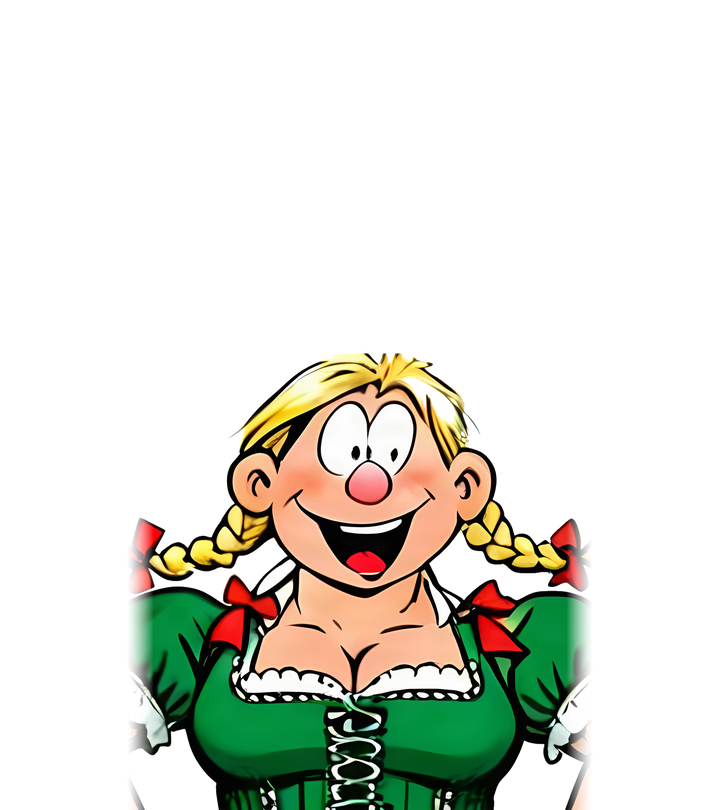
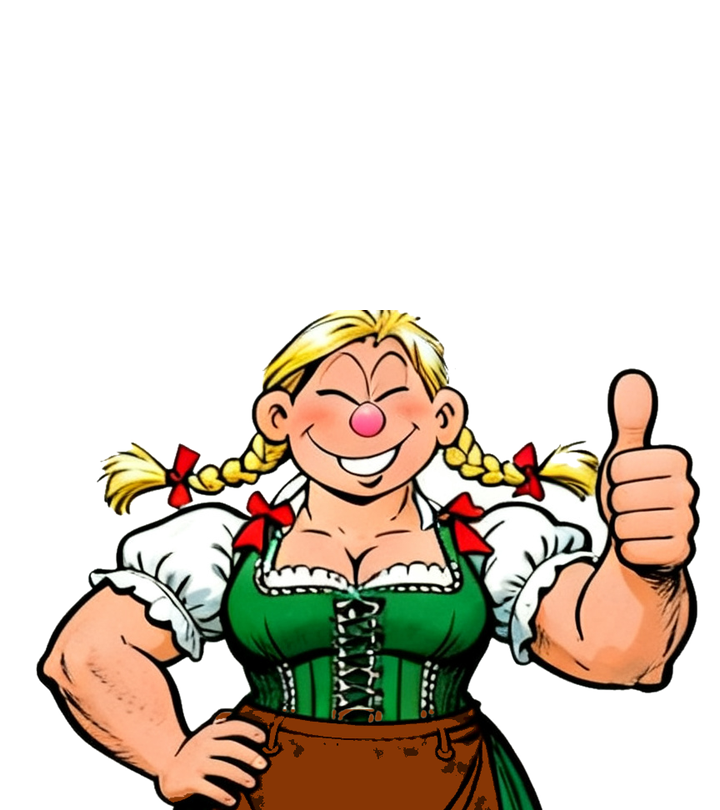
Story: Hanna shows her whole buff arms (thumbs-up pose)
Claude-Session: https://claude.ai/code/session_014QGDmV81LUu1R5ACRdt9j8

diff --git a/guides/DESIGNER_MANUAL.md b/guides/DESIGNER_MANUAL.md
@@ -4731,7 +4731,7 @@ and then its `Door Sound` (`door_open`, a wooden door creaking open)
 name off the bottom middle of its picture, e.g. the Club House's, so the
 Trophy Room hut in front of it keeps its own name.
 
-**The village buttons (23 Oct 2026)**: the village picture (assets/base/village.png) now has the drawn Pub right of the brewery. Like the brewery church, it is a button: Buildings.csv `Village Art` = `pub_inn` (assets/base/map/pub_inn.png = only its pixels, pub_inn_hover.png = lit up with a gold edge). The pitch is a button too: the new row `play_field` ("Play a match", Action `play:friendly`, Village Art `village_field`). Clicking the grass does what the Play a match flag did (the Match Maker), and while that row is on the base the flag is not on the top row. The pieces are made by /mnt/project-files/art_tool/base/village_buttons/make_pieces.py. The Dorms is drawn in too (the white block far left, behind the tree, chapel and houses): Village Art `dorms_block`, lit up on hover the same way. The Brewer visitor is off the base for now: his Visitors.csv `Requires` is `flag:brewer_on_base`; put `unlocked:Brewery` back to bring him back. Later the same day the whole picture was redrawn (r172): the new wooden Club House chalet in the middle (Village Art `clubhouse_chalet`), the low houses and little chapel under the Dorms and Club House all together as the Training Ground (`training_houses`), and the wooden Trophy hut with the gold cup in the field corner between the stone wall and the fence (`trophy_hut`). Every building on the base now lights up yellow on hover. The Dorms and Club House name tags are lifted onto their own building with `Name Offset` so the houses in front do not hide them. Pieces: /mnt/project-files/art_tool/base/village_buttons/make_masks_r172.py, then make_pieces_r172.py. The base's name now hangs on the tavern sign like the other screens (data/MenuHeader.csv; Language.csv `the_base`, `tutorial_base`). THE TUTORIAL NOW STARTS ON THE BASE (23 Oct 2026, Anthony): Tuning.csv `tutorial_first_scene` = `tut-base-welcome`, one Dialogue.csv line over the village picture (StoryArt.csv background `village`): the Head Coach says "Ah Coach! You are here, glad you could make it", and its Next `prologue/open` carries on into Pub Dialogue 1 and the tutorial match as before. Put `prologue` back in `tutorial_first_scene` to open in the pub again. THE NEW INTRODUCTION (23 Oct, Anthony): the welcome is now four lines ("Welcome to Sturmball!" ... "let us get a drink at the Pub"), and it ends ON THE BASE itself, in the tutorial's own save: everything is greyed out except the Pub, which glows (Guide.csv row `tut_intro_pub`, Highlight `Pub`, Only `true`; the tutorial save is given the Pub by Tuning.csv `tutorial_start_effects`). Press the Pub and Tuning.csv `tutorial_pub_scene` plays: Dialogue.csv `tut-pub-arrive` ("Ah, nothing beats a nice cold beer!", "Ah Koch! My prodigy"), whose last line's Next `prologue/put_down` carries on into the pub scene as before, then the tutorial match. `tutorial_pub_building` names which Buildings.csv row is the Pub. Blank `tutorial_pub_scene` = no base walk: the welcome goes straight on to the match. A Guide.csv row with Only `true` now works on the base too: every other button is greyed and cannot be pressed (the End tutorial button stays), and a drawn building glows instead of getting a ring. After "Ah Koch! My prodigy" Koch slides in from the right and the Head Coach moves to the left, facing the middle (Anthony, 23 Oct): Dialogue.csv has a new column, `Joins`: who steps on stage as a line shows WITHOUT speaking, written Portrait:Side:Mood (here `koch:right:drunk` on prologue/put_down), several separated by ;. Check: tools/tutorial_check.gd. A Joins entry for someone already on stage just changes their face (24 Oct, Anthony: on prologue/finish_up, "Fine! But finish up...", `koch:right:happy` makes Koch happy again; check: tools/koch_happy_shot.gd). Later the same day (Anthony): every sign's dark edge is half as thick (MenuHeader.csv `backing` Size 30, pictures remade by art_tool/menu/header_aura.py), and THE DRAWN HEAD COACH is in: the story faces in assets/story/portraits/coach_*.png are now his drawn happy, sad, drunk and mad fronts and his happy side (cut out by art_tool/characters/coach/game/cut_portraits.py). His side faces (happy, sad, drunk, mad) are drawn half-turned, semi front/side like the old pixel ones (r173-r174, Anthony's pick). The pub in the story is empty now (Anthony, 23 Oct): StoryArt.csv no longer stacks the regulars layer (assets/story/backgrounds/bar_regulars.png, still there) on the bar room; add the row `bar,background,,,,res://assets/story/backgrounds/bar_regulars.png` under the bar room to bring them back. The room itself is redrawn in our comic style (assets/story/backgrounds/bar_room_drawn.png, r175), with three beer garden table sets in three different woods in the middle of the floor (r176); the old pixel room is still bar_room.png. His cut-outs have the white between his hair strands and the pale rim round his outline taken out, and each picture is padded at the top to the shape of a person's spot on the story screen, so he stands on its bottom edge just behind the text box instead of floating above it (same script). All eight faces were then redrawn a little zoomed out (r177-r178, Anthony: "Redraw all 7"), so his shoulders, arms and hands are inside the picture and his sides no longer end in a straight cut; each is cut off through the blue-white diamonds, where the text box hides the edge. The faces before that are kept in art_tool/characters/coach/before_r178/. THE DRAWN KOCH is in too (23 Oct, Anthony: "Replace the old koch with the new one please", then "as clean and same size as the head coach"): all eight of his faces (happy, sad, drunk, mad, each front and half-turned side) are redrawn clean like the Head Coach (r179-r180). Both men's faces are now cut and sized by ONE script, art_tool/characters/story_faces.py: each picture is cut 800 px below the top of his head and shrunk to the same width, so both men stand at the same size in every mood. Koch's plain face is his happy one. ONE SET OF COLOURS (23 Oct, Anthony: the colours must not change from scene to scene): the same script shifts every face's skin, hair and clothes to that man's happy front colours, and the person listening in a conversation is no longer greyed out (Tuning.csv `story_listener_dim` 1; 0.55 brings back the grey). His mad faces now have normal skin instead of a red face (r181, Anthony's pick). His silhouette and Bergmännlein faces (the transformation) are unchanged. Check: tools/village_buttons_shot.gd. THE DRAWN HANNA is in as well (23 Oct, Anthony: "Need new Hanna in our art work in the game please"): assets/story/portraits/hanna_front.png and hanna_side.png are her drawn happy face, front and half-turned (art_tool/characters/hanna/, r22), cut out of the white page and shrunk so her head is the same size as the Head Coach's when they stand side by side in the brewery talk (art_tool/characters/hanna/game/cut_portraits.py; its second number is her size, 0.65). Her drawings are close-ups, so her sleeves ran off the sides in a straight cut that read as a white box round her on the drawn brewery hall; they now fade out over the outer 60 px of each side (FADE in the same script). Check: tools/hanna_shot.gd photographs the brewery lines.
+**The village buttons (23 Oct 2026)**: the village picture (assets/base/village.png) now has the drawn Pub right of the brewery. Like the brewery church, it is a button: Buildings.csv `Village Art` = `pub_inn` (assets/base/map/pub_inn.png = only its pixels, pub_inn_hover.png = lit up with a gold edge). The pitch is a button too: the new row `play_field` ("Play a match", Action `play:friendly`, Village Art `village_field`). Clicking the grass does what the Play a match flag did (the Match Maker), and while that row is on the base the flag is not on the top row. The pieces are made by /mnt/project-files/art_tool/base/village_buttons/make_pieces.py. The Dorms is drawn in too (the white block far left, behind the tree, chapel and houses): Village Art `dorms_block`, lit up on hover the same way. The Brewer visitor is off the base for now: his Visitors.csv `Requires` is `flag:brewer_on_base`; put `unlocked:Brewery` back to bring him back. Later the same day the whole picture was redrawn (r172): the new wooden Club House chalet in the middle (Village Art `clubhouse_chalet`), the low houses and little chapel under the Dorms and Club House all together as the Training Ground (`training_houses`), and the wooden Trophy hut with the gold cup in the field corner between the stone wall and the fence (`trophy_hut`). Every building on the base now lights up yellow on hover. The Dorms and Club House name tags are lifted onto their own building with `Name Offset` so the houses in front do not hide them. Pieces: /mnt/project-files/art_tool/base/village_buttons/make_masks_r172.py, then make_pieces_r172.py. The base's name now hangs on the tavern sign like the other screens (data/MenuHeader.csv; Language.csv `the_base`, `tutorial_base`). THE TUTORIAL NOW STARTS ON THE BASE (23 Oct 2026, Anthony): Tuning.csv `tutorial_first_scene` = `tut-base-welcome`, one Dialogue.csv line over the village picture (StoryArt.csv background `village`): the Head Coach says "Ah Coach! You are here, glad you could make it", and its Next `prologue/open` carries on into Pub Dialogue 1 and the tutorial match as before. Put `prologue` back in `tutorial_first_scene` to open in the pub again. THE NEW INTRODUCTION (23 Oct, Anthony): the welcome is now four lines ("Welcome to Sturmball!" ... "let us get a drink at the Pub"), and it ends ON THE BASE itself, in the tutorial's own save: everything is greyed out except the Pub, which glows (Guide.csv row `tut_intro_pub`, Highlight `Pub`, Only `true`; the tutorial save is given the Pub by Tuning.csv `tutorial_start_effects`). Press the Pub and Tuning.csv `tutorial_pub_scene` plays: Dialogue.csv `tut-pub-arrive` ("Ah, nothing beats a nice cold beer!", "Ah Koch! My prodigy"), whose last line's Next `prologue/put_down` carries on into the pub scene as before, then the tutorial match. `tutorial_pub_building` names which Buildings.csv row is the Pub. Blank `tutorial_pub_scene` = no base walk: the welcome goes straight on to the match. A Guide.csv row with Only `true` now works on the base too: every other button is greyed and cannot be pressed (the End tutorial button stays), and a drawn building glows instead of getting a ring. After "Ah Koch! My prodigy" Koch slides in from the right and the Head Coach moves to the left, facing the middle (Anthony, 23 Oct): Dialogue.csv has a new column, `Joins`: who steps on stage as a line shows WITHOUT speaking, written Portrait:Side:Mood (here `koch:right:drunk` on prologue/put_down), several separated by ;. Check: tools/tutorial_check.gd. A Joins entry for someone already on stage just changes their face (24 Oct, Anthony: on prologue/finish_up, "Fine! But finish up...", `koch:right:happy` makes Koch happy again; check: tools/koch_happy_shot.gd). Later the same day (Anthony): every sign's dark edge is half as thick (MenuHeader.csv `backing` Size 30, pictures remade by art_tool/menu/header_aura.py), and THE DRAWN HEAD COACH is in: the story faces in assets/story/portraits/coach_*.png are now his drawn happy, sad, drunk and mad fronts and his happy side (cut out by art_tool/characters/coach/game/cut_portraits.py). His side faces (happy, sad, drunk, mad) are drawn half-turned, semi front/side like the old pixel ones (r173-r174, Anthony's pick). The pub in the story is empty now (Anthony, 23 Oct): StoryArt.csv no longer stacks the regulars layer (assets/story/backgrounds/bar_regulars.png, still there) on the bar room; add the row `bar,background,,,,res://assets/story/backgrounds/bar_regulars.png` under the bar room to bring them back. The room itself is redrawn in our comic style (assets/story/backgrounds/bar_room_drawn.png, r175), with three beer garden table sets in three different woods in the middle of the floor (r176); the old pixel room is still bar_room.png. His cut-outs have the white between his hair strands and the pale rim round his outline taken out, and each picture is padded at the top to the shape of a person's spot on the story screen, so he stands on its bottom edge just behind the text box instead of floating above it (same script). All eight faces were then redrawn a little zoomed out (r177-r178, Anthony: "Redraw all 7"), so his shoulders, arms and hands are inside the picture and his sides no longer end in a straight cut; each is cut off through the blue-white diamonds, where the text box hides the edge. The faces before that are kept in art_tool/characters/coach/before_r178/. THE DRAWN KOCH is in too (23 Oct, Anthony: "Replace the old koch with the new one please", then "as clean and same size as the head coach"): all eight of his faces (happy, sad, drunk, mad, each front and half-turned side) are redrawn clean like the Head Coach (r179-r180). Both men's faces are now cut and sized by ONE script, art_tool/characters/story_faces.py: each picture is cut 800 px below the top of his head and shrunk to the same width, so both men stand at the same size in every mood. Koch's plain face is his happy one. ONE SET OF COLOURS (23 Oct, Anthony: the colours must not change from scene to scene): the same script shifts every face's skin, hair and clothes to that man's happy front colours, and the person listening in a conversation is no longer greyed out (Tuning.csv `story_listener_dim` 1; 0.55 brings back the grey). His mad faces now have normal skin instead of a red face (r181, Anthony's pick). His silhouette and Bergmännlein faces (the transformation) are unchanged. Check: tools/village_buttons_shot.gd. THE DRAWN HANNA is in as well (23 Oct, Anthony: "Need new Hanna in our art work in the game please"): assets/story/portraits/hanna_front.png and hanna_side.png are her drawn happy face, front and half-turned (art_tool/characters/hanna/, r22), cut out of the white page and shrunk so her head is the same size as the Head Coach's when they stand side by side in the brewery talk (art_tool/characters/hanna/game/cut_portraits.py; its second number is her size, 0.65). Her drawings are close-ups, so her sleeves ran off the sides in a straight cut that read as a white box round her on the drawn brewery hall; they now fade out over the outer 60 px of each side (FADE in the same script). HER ARMS ARE IN (24 Oct, Anthony: "we need to see that she is buff af"): her front face (the one every brewery line uses) is now her drawn thumbs-up pose, both arms whole, cut below her hand on her hip (POSES in the same script). That picture is wider, so StoryArt.csv Scale 1.25 draws it bigger again; her thumb then reaches the right edge of the screen. Her half-turned side face is still the close-up. Check: tools/hanna_shot.gd photographs the brewery lines.
 
 **On Base (Buildings.csv, 23 Oct 2026)**: write `no` and that building is not drawn on the base, but it still exists (its key, window, unlocks and Club House sale all still work). Blank = drawn. The Traveling Tavern is `no` for now (Anthony's ask); empty the cell to bring the wagon back.
 
